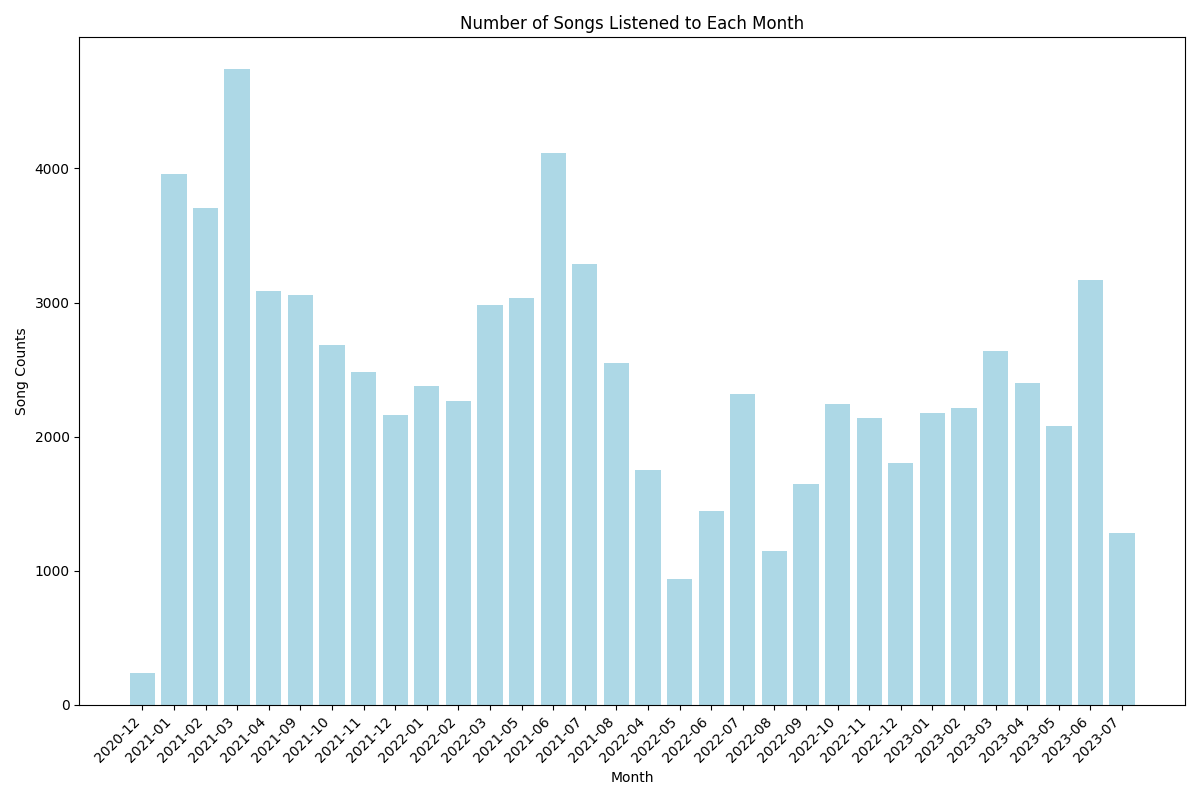
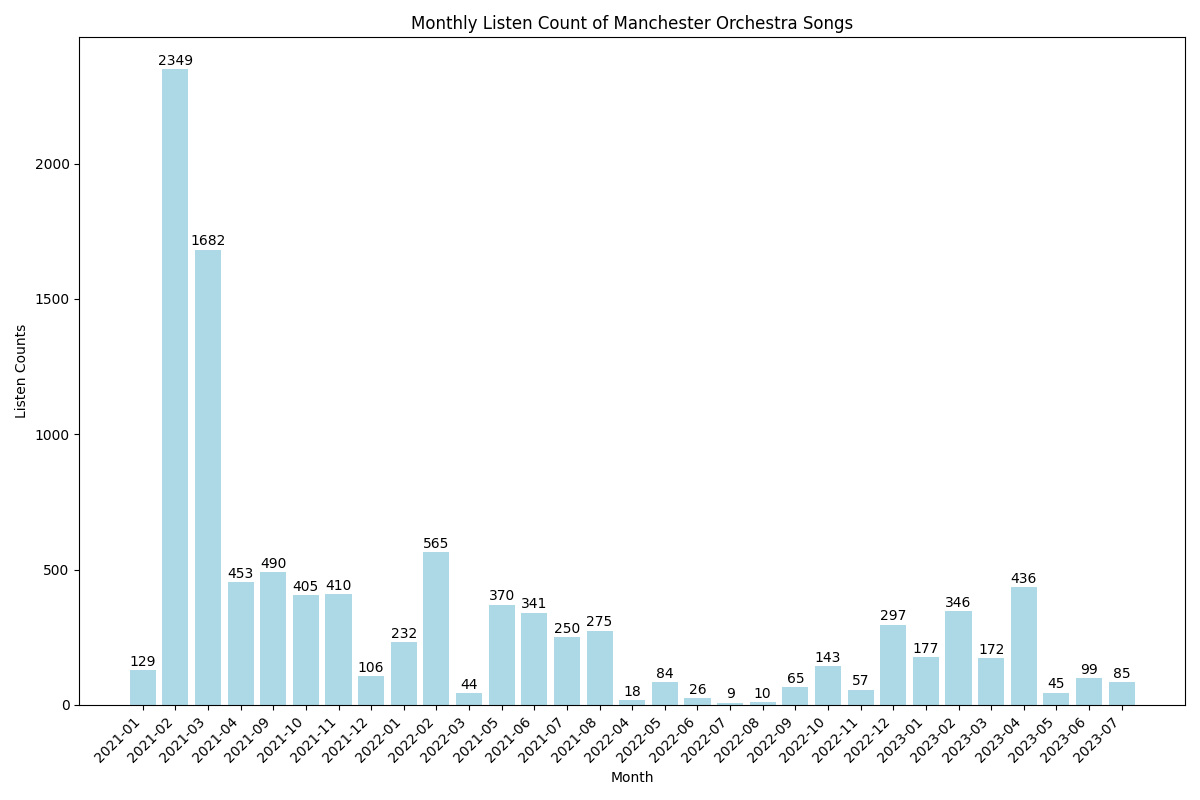
throws 'monthly_listen_count' is undefined

diff --git a/flask_spotify/templates/monthly_listen_count.html b/flask_spotify/templates/monthly_listen_count.html
@@ -1,0 +1,33 @@
+<!DOCTYPE html>
+<html lang="en">
+
+<head>
+    <meta charset="UTF-8">
+    <meta name="viewport" content="width=device-width, initial-scale=1.0">
+    <title>Monthly Listen Count</title>
+</head>
+
+<body>
+    <h1>Monthly Listen Count</h1>
+    <img src="{{ url_for('static', filename='monthly_listen_count_plot.png') }}" alt="Monthly Listen Count Plot">
+
+    <form action="{{ url_for('monthly_listen_count') }}" method="get">
+        <button type="submit">Refresh</button>
+    </form>
+
+    <form action="{{ url_for('monthly_listen_count') }}" method="post">
+        <label for="artist_name">Enter Artist Name:</label>
+        <input type="text" id="artist_name" name="artist_name" required>
+        <button type="submit">Generate Monthly Listen Count</button>
+    </form>
+
+    <p>Here is the monthly listen count:</p>
+    <ul>
+        {% for month, listen_count in zip(monthly_listen_count[0], monthly_listen_count[1]) %}
+        <li>{{ month }} - {{ listen_count }} listens</li>
+        {% endfor %}
+    </ul>
+    <p><a href="{{ url_for('home') }}">Back to Home</a></p>
+</body>
+
+</html>

diff --git a/flask_spotify/app.py b/flask_spotify/app.py
@@ -85,29 +85,105 @@ def plot_top_songs(num_top_songs=10, exclude_artist_list=None):
     return top_songs
 
 
-def plot_monthly_listen_count():
+# def plot_monthly_listen_count(artist_name):
+#     # Filter data for the specified artist's songs
+#     artist_songs = [
+#         entry
+#         for entry in data
+#         if artist_name.lower() in entry["master_metadata_album_artist_name"].lower()
+#     ]
+
+#     # Group data by month
+#     monthly_listen_count = defaultdict(int)
+
+#     for entry in artist_songs:
+#         timestamp_str = entry["ts"]
+#         timestamp = datetime.strptime(timestamp_str, "%Y-%m-%dT%H:%M:%SZ")
+#         month_year = timestamp.strftime("%Y-%m")
+#         monthly_listen_count[month_year] += 1
+
+#     # Extract months and listen counts
+#     months = list(monthly_listen_count.keys())
+#     listen_counts = list(monthly_listen_count.values())
+
+#     plt.figure(figsize=(12, 8))
+#     bars = plt.bar(months, listen_counts, color="lightblue")
+#     plt.xlabel("Month")
+#     plt.ylabel("Listen Counts")
+#     plt.title(f"Monthly Listen Count of {artist_name} Songs")
+#     plt.xticks(rotation=45, ha="right")
+
+#     # Annotate each bar with the listen count
+#     for i, bar in enumerate(bars):
+#         height = bar.get_height()
+#         plt.text(
+#             bar.get_x() + bar.get_width() / 2,
+#             height + 5,
+#             f"{height}",
+#             ha="center",
+#             va="bottom",
+#             color="black",
+#         )
+
+#     plt.tight_layout()
+
+#     # Save the plot to a file
+#     plt.savefig("static/monthly_listen_count_plot.png")
+#     plt.close()
+
+#     # Return the monthly listen count data for rendering in the template
+#     return monthly_listen_count
+
+
+def plot_monthly_listen_count(artist_name):
+    # Filter data for the specified artist's songs
+    artist_songs = [
+        entry
+        for entry in data
+        if entry.get("master_metadata_album_artist_name")
+        and artist_name.lower() in entry["master_metadata_album_artist_name"].lower()
+    ]
+
+    # Group data by month
     monthly_listen_count = defaultdict(int)
 
-    for entry in data:
+    for entry in artist_songs:
         timestamp_str = entry["ts"]
         timestamp = datetime.strptime(timestamp_str, "%Y-%m-%dT%H:%M:%SZ")
         month_year = timestamp.strftime("%Y-%m")
         monthly_listen_count[month_year] += 1
 
+    # Extract months and listen counts
     months = list(monthly_listen_count.keys())
     listen_counts = list(monthly_listen_count.values())
 
     plt.figure(figsize=(12, 8))
-    plt.bar(months, listen_counts, color="lightblue")
+    bars = plt.bar(months, listen_counts, color="lightblue")
     plt.xlabel("Month")
-    plt.ylabel("Song Counts")
-    plt.title("Number of Songs Listened to Each Month")
+    plt.ylabel("Listen Counts")
+    plt.title(f"Monthly Listen Count of {artist_name} Songs")
     plt.xticks(rotation=45, ha="right")
+
+    # Annotate each bar with the listen count
+    for i, bar in enumerate(bars):
+        height = bar.get_height()
+        plt.text(
+            bar.get_x() + bar.get_width() / 2,
+            height + 5,
+            f"{height}",
+            ha="center",
+            va="bottom",
+            color="black",
+        )
+
     plt.tight_layout()
 
     # Save the plot to a file
     plt.savefig("static/monthly_listen_count_plot.png")
     plt.close()
+
+    # Return the monthly listen count data for rendering in the template
+    return months, listen_counts
 
 
 # Route to the home page
@@ -159,10 +235,23 @@ def top_songs():
 #         return f"Error: {e}"
 
 
-# Route to the monthly listen count page
-@app.route("/monthly_listen_count")
+# Add a new route for the monthly listen count
+@app.route("/monthly_listen_count", methods=["GET", "POST"])
 def monthly_listen_count():
-    plot_monthly_listen_count()
+    if request.method == "POST":
+        artist_name = request.form.get("artist_name")
+        if not artist_name:
+            return "Please provide an artist name."
+
+        try:
+            monthly_listen_count_data = plot_monthly_listen_count(artist_name)
+            return render_template(
+                "monthly_listen_count.html",
+                monthly_listen_count=monthly_listen_count_data,
+            )
+        except ValueError as e:
+            return f"Error: {e}"
+
     return render_template("monthly_listen_count.html")
 
 
